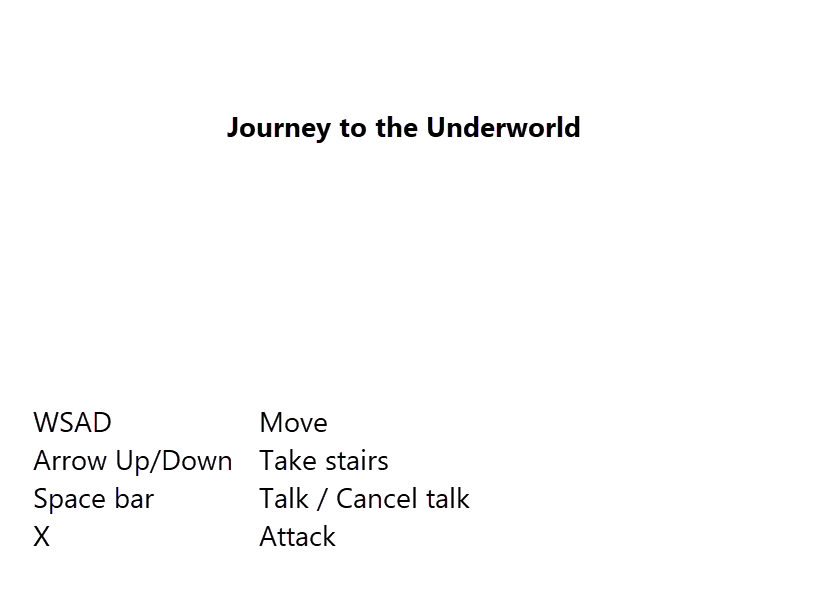
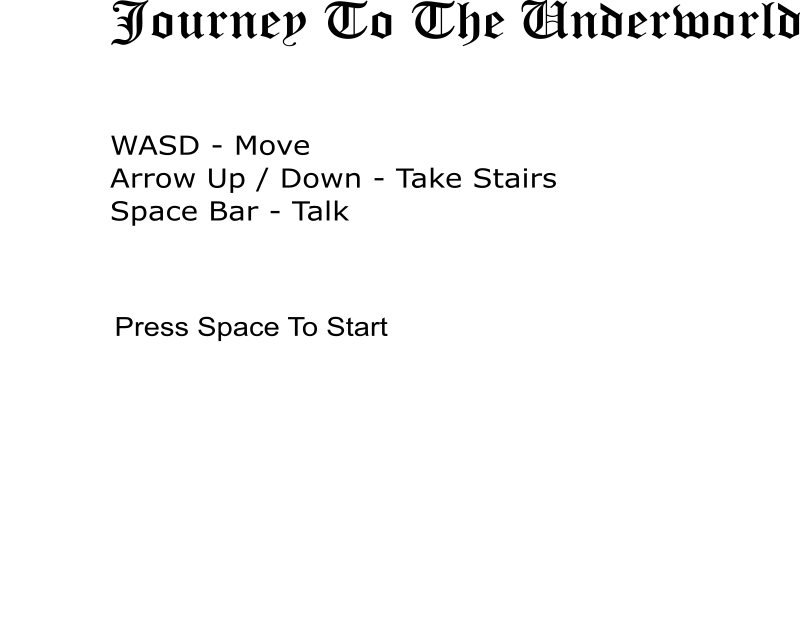
Improve instruction screen, add wall graphics, switch colors between levels.

diff --git a/source/my_game.py b/source/my_game.py
@@ -28,7 +28,7 @@ class MyGame(arcade.Window):
         self.grid = None
         self.level_list = None
         self.current_level = None
-        self.current_level_no = 2
+        self.current_level_no = 0
         self.player_list = None
         self.player_sprite = None
         self.view_bottom = 0
@@ -46,7 +46,7 @@ class MyGame(arcade.Window):
         texture = arcade.load_texture("images/instructions-01.png")
         self.instructions.append(texture)
 
-        arcade.set_background_color(arcade.color.BLACK)
+        arcade.set_background_color(arcade.color.WHITE)
 
     def setup(self):
         self.player_list = arcade.SpriteList()
@@ -82,7 +82,7 @@ class MyGame(arcade.Window):
         Draw an instruction page. Load the page as an image.
         """
         page_texture = self.instructions[page_number]
-        arcade.draw_texture_rectangle(WINDOW_WIDTH // 2, WINDOW_HEIGHT // 2,
+        arcade.draw_texture_rectangle(WINDOW_WIDTH // 2, WINDOW_HEIGHT // 2 - 120,
                                       page_texture.width,
                                       page_texture.height, page_texture, 0)
 
@@ -188,6 +188,7 @@ class MyGame(arcade.Window):
         if self.current_state == INSTRUCTIONS_PAGE_0:
             if key == arcade.key.SPACE:
                 self.current_state = GAME_RUNNING
+                arcade.set_background_color(self.current_level.background_color)
 
         elif self.current_state == GAME_RUNNING:
             if key == arcade.key.SPACE and len(self.message_queue) > 0:
@@ -222,6 +223,7 @@ class MyGame(arcade.Window):
                     self.player_sprite.center_x = stair_hit_list[0].center_x
                     self.player_sprite.center_y = stair_hit_list[0].center_y
                     self.current_level_no += 1
+                    arcade.set_background_color(self.current_level.background_color)
                     self.current_level = self.level_list[self.current_level_no]
                     self.physics_engine = arcade.PhysicsEngineSimple(self.player_sprite,
                                                                      self.current_level.wall_list)
@@ -235,6 +237,7 @@ class MyGame(arcade.Window):
                     self.player_sprite.center_x = stair_hit_list[0].center_x
                     self.player_sprite.center_y = stair_hit_list[0].center_y
                     self.current_level_no -= 1
+                    arcade.set_background_color(self.current_level.background_color)
                     self.current_level = self.level_list[self.current_level_no]
                     self.physics_engine = arcade.PhysicsEngineSimple(self.player_sprite,
                                                                      self.current_level.wall_list)
@@ -246,6 +249,43 @@ class MyGame(arcade.Window):
             self.player_sprite.change_y = 0
         elif key == arcade.key.A or key == arcade.key.D:
             self.player_sprite.change_x = 0
+
+    def scroll(self):
+        # Track if we need to change the viewport
+
+        changed = False
+
+        # Scroll left
+        left_bndry = self.view_left + VIEWPORT_MARGIN
+        if self.player_sprite.left < left_bndry:
+            self.view_left -= left_bndry - self.player_sprite.left
+            changed = True
+
+        # Scroll right
+        right_bndry = self.view_left + WINDOW_WIDTH - VIEWPORT_MARGIN
+        if self.player_sprite.right > right_bndry:
+            self.view_left += self.player_sprite.right - right_bndry
+            changed = True
+
+        # Scroll up
+        top_bndry = self.view_bottom + WINDOW_HEIGHT - VIEWPORT_MARGIN
+        if self.player_sprite.top > top_bndry:
+            self.view_bottom += self.player_sprite.top - top_bndry
+            changed = True
+
+        # Scroll down
+        bottom_bndry = self.view_bottom + VIEWPORT_MARGIN
+        if self.player_sprite.bottom < bottom_bndry:
+            self.view_bottom -= bottom_bndry - self.player_sprite.bottom
+            changed = True
+
+        if changed:
+            # print(f"Scroll to {self.view_left}, {self.view_bottom}")
+            arcade.set_viewport(self.view_left,
+                                WINDOW_WIDTH + self.view_left,
+                                self.view_bottom,
+                                WINDOW_HEIGHT + self.view_bottom)
+
 
     def update(self, delta_time):
         """ Movement and game logic """
@@ -277,40 +317,7 @@ class MyGame(arcade.Window):
             self.player_sprite.inventory.append(my_object)
 
         # --- Manage Scrolling ---
-
-        # Track if we need to change the viewport
-
-        changed = False
-
-        # Scroll left
-        left_bndry = self.view_left + VIEWPORT_MARGIN
-        if self.player_sprite.left < left_bndry:
-            self.view_left -= left_bndry - self.player_sprite.left
-            changed = True
-
-        # Scroll right
-        right_bndry = self.view_left + WINDOW_WIDTH - VIEWPORT_MARGIN
-        if self.player_sprite.right > right_bndry:
-            self.view_left += self.player_sprite.right - right_bndry
-            changed = True
-
-        # Scroll up
-        top_bndry = self.view_bottom + WINDOW_HEIGHT - VIEWPORT_MARGIN
-        if self.player_sprite.top > top_bndry:
-            self.view_bottom += self.player_sprite.top - top_bndry
-            changed = True
-
-        # Scroll down
-        bottom_bndry = self.view_bottom + VIEWPORT_MARGIN
-        if self.player_sprite.bottom < bottom_bndry:
-            self.view_bottom -= bottom_bndry - self.player_sprite.bottom
-            changed = True
-
-        if changed:
-            arcade.set_viewport(self.view_left,
-                                WINDOW_WIDTH + self.view_left,
-                                self.view_bottom,
-                                WINDOW_HEIGHT + self.view_bottom)
+        self.scroll()
 
         # Save the time it took to do this.
         self.processing_time = timeit.default_timer() - start_time

diff --git a/source/create_levels.py b/source/create_levels.py
@@ -65,7 +65,9 @@ def create_stairs(level_list):
 
 def create_walls(level_list):
 
-    for level in level_list:
+    for index, level in enumerate(level_list):
+        i = index+1
+        wall_filename = f"images/wall-{i:02}.png"
         level.wall_list = arcade.SpriteList()
 
         for row in range(GRID_HEIGHT):
@@ -81,7 +83,7 @@ def create_walls(level_list):
                 column_count = end_column - start_column + 1
                 column_mid = (start_column + end_column) / 2
 
-                wall = arcade.Sprite("images/wall-01.png", WALL_SPRITE_SCALING,
+                wall = arcade.Sprite(wall_filename, WALL_SPRITE_SCALING,
                                      repeat_count_x=column_count)
                 wall.center_x = column_mid * WALL_SPRITE_SIZE + WALL_SPRITE_SIZE / 2
                 wall.center_y = row * WALL_SPRITE_SIZE + WALL_SPRITE_SIZE / 2
@@ -96,14 +98,17 @@ def create_levels(player_sprite):
     level = Level()
     level.grid = get_level_1_array()
     level_list.append(level)
+    level.background_color = arcade.color.BISTRE
 
     level = Level()
     level.grid = get_level_2_array()
     level_list.append(level)
+    level.background_color = arcade.color.BLACK_OLIVE
 
     level = Level()
     level.grid = get_level_3_array()
     level_list.append(level)
+    level.background_color = arcade.color.EERIE_BLACK
 
     create_walls(level_list)
 

diff --git a/source/level.py b/source/level.py
@@ -21,3 +21,4 @@ class Level:
         self.stair_list = arcade.SpriteList()
         self.creature_list = arcade.SpriteList()
         self.objects_list = arcade.SpriteList()
+        self.background_color = arcade.color.BLACK

diff --git a/source/constants.py b/source/constants.py
@@ -31,3 +31,4 @@ WINDOW_WIDTH = 1200
 WINDOW_HEIGHT = 800
 
 MERGE_SPRITES = True
+
